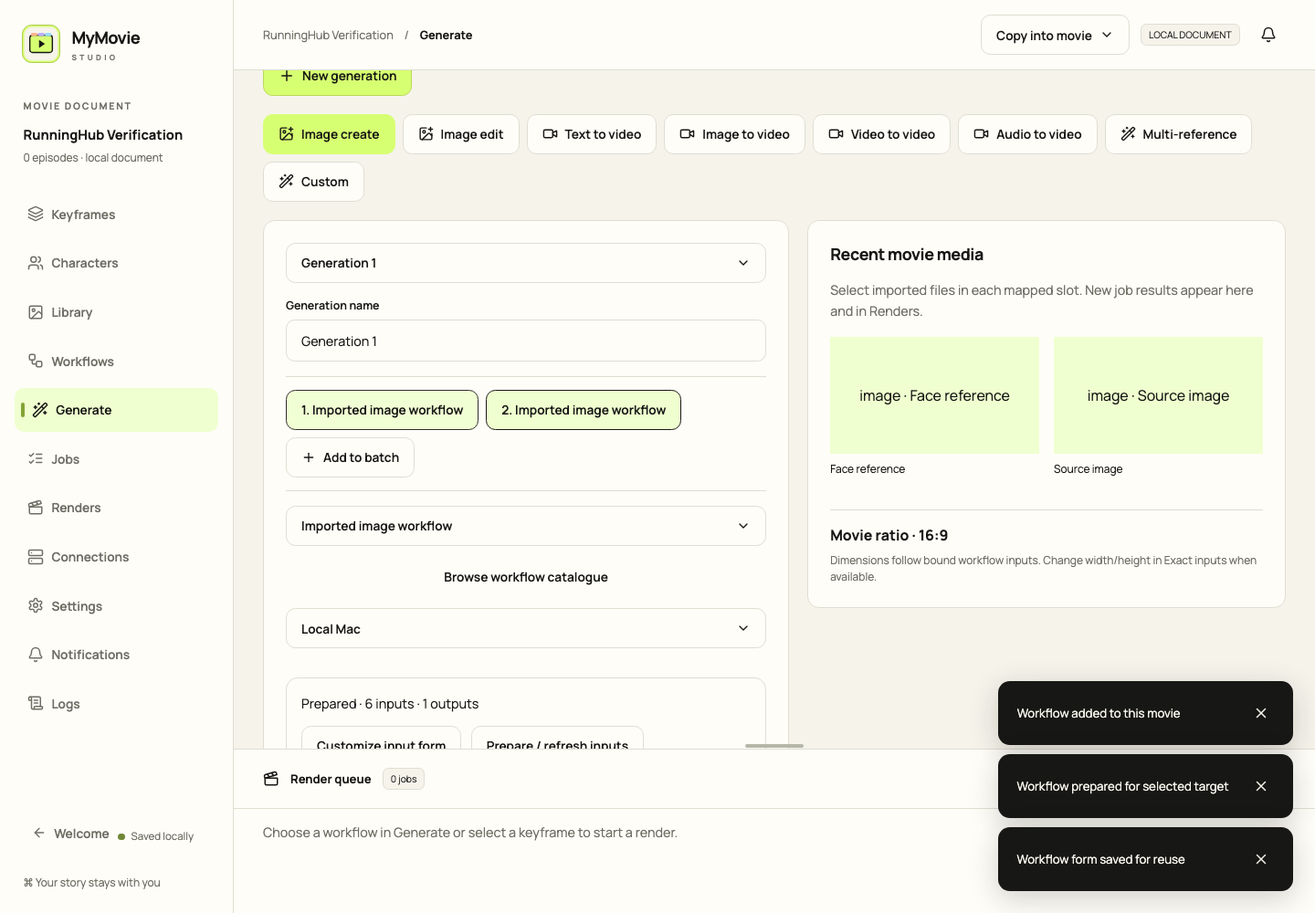
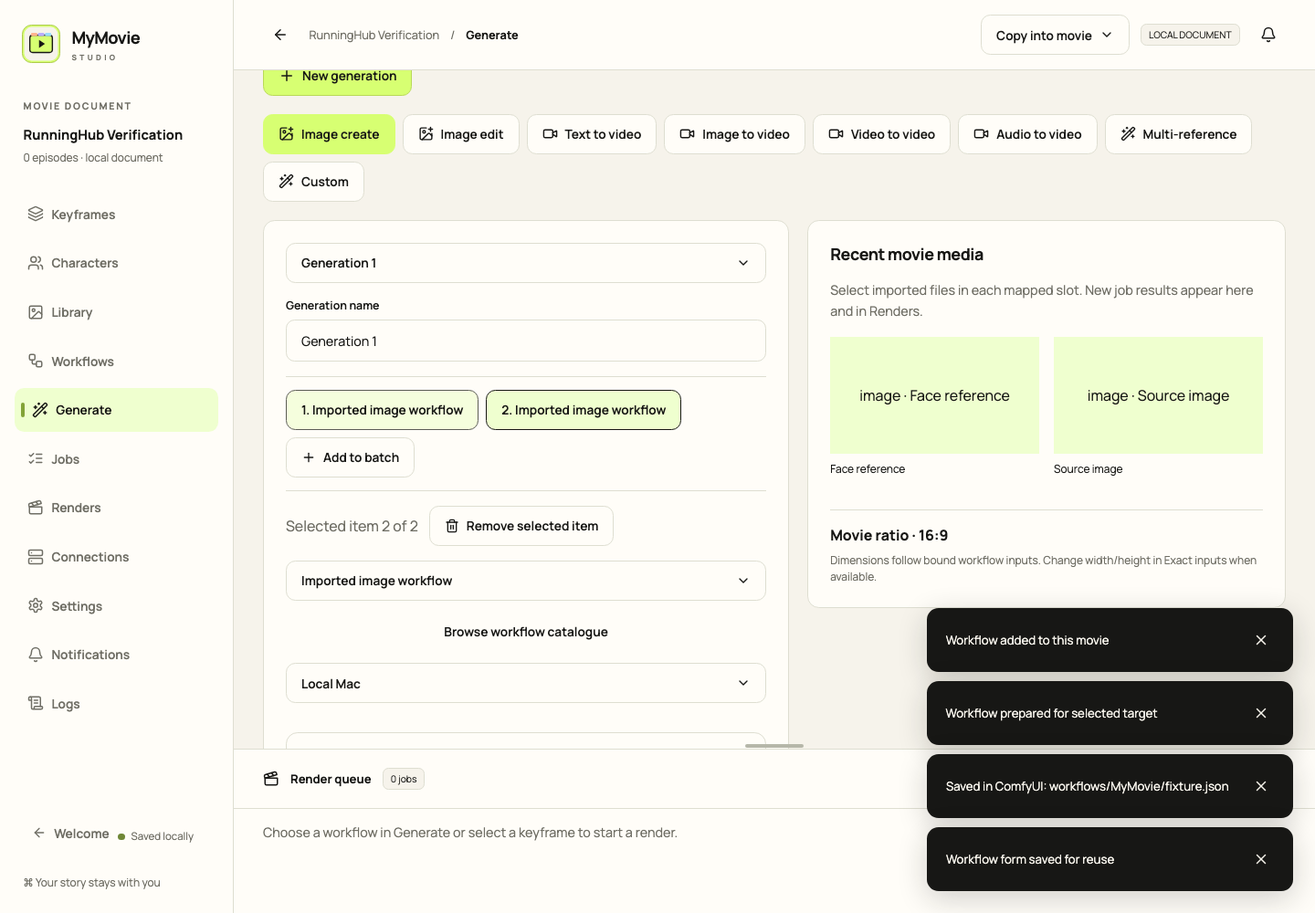
Document Studio 0.1.7 native queue and ARM64 utility acceptance

diff --git a/docs/STUDIO_REFINEMENT_PLAN.md b/docs/STUDIO_REFINEMENT_PLAN.md
@@ -1,0 +1,120 @@
+# Implementation Plan: Studio refinement and real ComfyUI workflow installation
+
+Status: Approved by user `go`; implemented in 0.1.7. Verification: TASK_LOG.md.
+Date: 2026-10-14
+Branch: main
+
+## Goal
+Make reusable workflow forms compact and correct, separate queueing from execution, reliably prepare and install normal editor workflows through the utility, and improve document navigation, media previews and usage discovery. Verify the already-published Linux ARM64 agent inside the user's OrbStack Debian VM.
+
+## Existing behavior
+- Version 0.1.6 already publishes four agents, including Linux aarch64, and five desktop builds. Debian OrbStack reports aarch64/glibc 2.41; Python and curl exist, ffmpeg is absent.
+- Generate saves drafts, but its main action sends users to review/start. Native start_job_draft persists a run and immediately dispatches. Persisted pause/resume and FIFO/parallel scheduling already exist.
+- FaceSwap image roles are guessed from node enumeration. Explicit node/input bindings and per-workflow hidden/advanced layouts exist, but role correction and compact customization are difficult to discover.
+- Profiles compare a hash of the entire object_info registry. Dynamic uploaded-file lists and unrelated classes can invalidate otherwise compatible workflows.
+- workflow-install stores immutable editor JSON in the agent catalogue only. It does not publish a saved workflow into ComfyUI's workflow library. workflow-compile already delegates API serialization to the selected frontend.
+- The installed ComfyUI provides GET/POST /userdata/{encoded-file}, with overwrite=false conflict protection. Import can use this API without replacing the open canvas.
+- Welcome has no recent-list management. Its existing return button disappears below the responsive sidebar breakpoint.
+- Library videos lack poster thumbnails, filenames lack constrained ellipsis, and asset/character usage has no cross-scene navigation.
+
+## Proposed approach
+1. Persist explicit source/reference roles against exact node ID + input name. Offer Swap inputs for the two-image FaceSwap form; never infer image1 from dictionary order. Preserve original editor/API graphs and historical run receipts. Existing drafts need an explicit repair action rather than silent mutation.
+2. Make essential media and prompt fields the compact default. Expose Customize inputs, Advanced, and Show hidden without recompilation. Persist workflow-level labels, roles, grouping and visibility for reuse; hidden fields retain values and validation. Required unmapped inputs cannot disappear without an actionable warning.
+3. Add Add to queue separately from Run now. Enqueue freezes/preflights a durable run in the existing paused state, with optional start-reason metadata distinguishing never-started queued work from a manually paused run. Queueing performs no upload or provider submission. Start selected/all queued resumes these runs; existing endpoint FIFO and parallel-node rules remain authoritative. Reopening queued work must never start it automatically.
+4. Replace whole-registry comparison with a versioned workflow-scoped compatibility fingerprint. Hash used node structural schemas, Python module identity and static choices. Record frontend identity separately in the compilation receipt. Treat known dynamic media/model inventory lists separately, validating the chosen models and fields live. Actual schema changes require reprepare; unrelated additions do not. Existing legacy profiles require one explicit refresh, retaining compatible layout/values.
+5. Extend workflow-install with an explicit publish-to-ComfyUI option. Publish editor JSON to a confined, sanitized, content-versioned workflows/MyMovie path via Userdata API, overwrite=false; read it back and verify semantic content/hash. Same content is idempotent, different content cannot overwrite. Return library path, source hash and loadedCanvas=false. Expose Install in ComfyUI for the selected catalogue workflow/node. Reuse the existing compiler to export API; do not ask for repeated API uploads.
+6. Keep Welcome reachable at every supported screen size. Make recent movies scroll within the available height; offer remove entry and clear list, affecting recent history only. Close-to-Welcome must flush pending edits and scope outstanding work correctly.
+7. Generate bounded background video posters into derived asset cache, with source-hash identity, failure fallback and retry. Extend the confined native media protocol for posters. FFmpeg discovery must work from a GUI launch; absent ffmpeg gives a clear setup action without rejecting the imported video. Keep original/linked materials unchanged.
+8. Add shared usage selectors: direct frame placement, character references through effective scene/frame cast, and draft references are labeled separately. Show scene/frame links in Library and effective character assignments in Characters. Clicking character usage filters Board across the selected episode, switching episode when opening a specific result; filter is easy to clear.
+
+## File changes
+All changes below are modifications unless marked create. No files are deleted.
+
+### Contracts, preparation and queue
+- crates/studio-contracts/src/lib.rs: backward-compatible optional media-role, fingerprint-version and queued-start metadata.
+- apps/desktop/src/lib/types.ts: matching TypeScript DTO fields.
+- crates/workflow-core/src/schema.rs: explicit role application and workflow-scoped registry normalization/fingerprint, with regressions.
+- crates/provider-comfyui/src/lib.rs: scoped compatibility checks plus separate live inventory validation.
+- apps/desktop/src-tauri/src/service/catalogue.rs: prepare/refresh preservation and installation command orchestration.
+- apps/desktop/src-tauri/src/service/jobs.rs: shared preflight/freeze, enqueue without dispatch and explicit queued-run start.
+- crates/job-core/src/runs.rs: queued/paused start metadata and existing recovery/admission behavior.
+- crates/job-core/tests/runs.rs: durable enqueue/reopen/FIFO/parallel regression coverage.
+- apps/desktop/src-tauri/src/main.rs: register enqueue/start, workflow installation, recent management and thumbnail commands.
+
+### Agent installation
+- apps/agent/src/main.rs: explicit workflow-install publish options and validation.
+- apps/agent/src/workflow.rs: bounded Userdata publication/readback and receipts; preserve registry-only default.
+- crates/provider-relay/src/lib.rs: typed installation payload through the existing allowlisted control channel.
+- apps/relay/src/main.rs: validate installation payload and retain scoped authorization; no arbitrary path/command execution.
+
+### UI and media
+- apps/desktop/src/components/WorkflowTarget.tsx: visible compact customization, role editing and Install in ComfyUI.
+- apps/desktop/src/components/WorkflowInputs.tsx: explicit source/reference slots, swap action and compact/advanced layout.
+- apps/desktop/src/features/Generate.tsx: separate queue/run actions with saved workflow/node reuse.
+- apps/desktop/src/features/Jobs.tsx: queue review, queued runs and explicit start selected/all controls.
+- apps/desktop/src/App.tsx: recent management, responsive Welcome action, usage navigation and async scoping.
+- apps/desktop/src/features/Library.tsx: filename ellipsis, video posters, asset/character usage links.
+- apps/desktop/src/features/Board.tsx: external navigation and effective-character filter.
+- apps/desktop/src/lib/project-usage.ts (create): pure asset/cast usage selectors shared by Library and Board.
+- apps/desktop/src/lib/project-usage.test.ts (create): inherited cast, deduplication and cross-episode usage tests.
+- apps/desktop/src/lib/job-inputs.ts: apply explicit media roles while preserving exact node/input addresses.
+- apps/desktop/src/lib/job-inputs.test.ts: swap/persistence and hidden-default regressions.
+- apps/desktop/src/lib/bridge.ts: typed new commands and poster URL.
+- apps/desktop/src/styles/studio.css: rem spacing, compact form layout, constrained filenames, scrollable recents and visible navigation.
+- crates/integration-core/src/lib.rs: remove/clear recent history without deleting projects.
+- crates/asset-core/src/lib.rs: safe derived poster path/process helpers.
+- apps/desktop/src-tauri/src/service.rs: recent commands and scoped thumbnail orchestration.
+- apps/desktop/src-tauri/src/service/thumbnails.rs (create): bounded asynchronous thumbnail worker/cache/status.
+- apps/desktop/src-tauri/src/media.rs: confined poster route alongside existing media streaming.
+
+### Acceptance and documentation
+- e2e/generate.e2e.ts: compact roles and queue-without-run behavior.
+- e2e/jobs.e2e.ts: explicit start queued jobs and endpoint dispatch behavior.
+- e2e/workflow-catalogue.e2e.ts: workflow installation/reuse and refresh actions.
+- e2e/library.e2e.ts (create): recent navigation, long filenames, posters and usage filtering with native fixtures.
+- docs/WORKFLOW_SETUP.md: utility installation/export instructions, refresh guidance and Linux ARM64 VM test.
+- docs/GENERATION_ACCEPTANCE.md: actual local/VM acceptance evidence, distinguishing real from mocked execution.
+- README.md, README.ru.md, README.fr.md: queue, compact inputs, workflow install and media usage guidance.
+- docs/PROJECT_CONTEXT.md, ARCHITECTURE_INDEX.md, MODULE_OWNERSHIP.md, API_CONTRACTS.md, DECISIONS.md, TASK_LOG.md: concise final contracts, module map and verification state.
+- docs/screenshots/: refreshed native UI and utility acceptance evidence, excluding personal media/secrets.
+
+## Implementation steps
+1. Fix explicit roles and scoped compatibility first; test exact FaceSwap node IDs and dynamic filename/model inventory changes. Preserve old profiles and provide an explicit refresh path.
+2. Extract common native draft freezing and implement enqueue/start. Verify zero external writes on enqueue, persistence after reopen and scheduling when explicitly started.
+3. Add agent publication/readback and selected-node UI integration. Verify an ordinary weight-free editor workflow appears in local ComfyUI's saved workflow library and compiles to API through the utility.
+4. Implement compact reusable forms and visible queue controls; verify the two FaceSwap slots and saved defaults survive reopen.
+5. Add recent-list management and responsive navigation; verify small-screen scrolling and save-before-close.
+6. Add poster generation, filename constraints, usage selectors and Board navigation. Verify imported copied/linked videos and inherited character references.
+7. Extract the verified v0.1.6 Linux ARM64 artifact into an isolated Debian VM work directory. Check ELF architecture/help/doctor, install only the compiler prerequisites required for this acceptance, then test utility install/compile against reachable local ComfyUI. If a VM-local ComfyUI is needed, use an isolated weight-free CPU setup; never download large weights for this test.
+8. Complete tests, rebuild the native macOS app, capture screenshots and update English/Russian/French docs and compact memory. Commit small coherent changes on main. A future release tag/publication is separate from verifying the existing ARM64 download.
+
+## Verification
+- cargo test --workspace --locked; cargo fmt --all -- --check.
+- npm test; npm run typecheck; npm run test:e2e; npm run build.
+- python3 -m unittest discover -s scripts/tests.
+- Native macOS production build and manual responsive Welcome/Generate/Jobs/Library/Characters checks.
+- Provider fixture tests: unrelated registry additions and uploaded filenames remain compatible; used node schema changes and missing selected models still fail before staging.
+- Queue fixture tests: enqueue makes no upload/submission; restart stays idle; explicit start respects FIFO per endpoint and overlap across endpoints.
+- Real local test: publish a normal editor mask workflow using the utility, read it back/list it from ComfyUI, export API through its frontend, queue without running, explicitly run and verify collected result/hash.
+- FaceSwap role correction: inspect active graph links and user-specified image1/image2 reversal; test with the previously approved non-explicit portraits only.
+- ARM64 VM: verify actual published binary architecture and execute install/compile; record exact environment and failures rather than claiming cloud acceptance.
+- Video test: import a small local fixture, verify generated poster, cache reuse, non-blocking failure/missing-ffmpeg state and confined media access.
+
+## Risks / edge cases
+- Node order does not establish media semantics. Existing FaceSwap drafts must be repaired visibly; new bindings must preserve exact node identity.
+- Dynamic combo normalization must be limited to known inventory fields; static combo changes and actual selected-model absence remain meaningful failures.
+- Older profiles require one reprepare; no silent compatibility bypass or mutation of immutable receipts.
+- ComfyUI versions without Userdata support report a capability error; registry storage alone is never labeled installation into ComfyUI.
+- FFmpeg location/dependencies differ across desktop platforms. Thumbnails are optional derived data, never an import prerequisite.
+- Scene-inherited character references describe availability, not proof that a render used a particular reference image.
+- VM can test ARM64 CPU utility behavior, not CUDA/GPU cloud deployment.
+
+## Out of scope
+Paid RunningHub jobs, rented cloud nodes, GPU/cloud acceptance, changing existing active ComfyUI canvases, arbitrary plugin/weight installation, release notarization, and automatic modification of historical jobs. Existing reviewed provisioning remains available unchanged.
+
+## Accepted refinements during implementation
+- Remove selected Generate batch items, including the last item, with an empty-state recovery action.
+- Collapse Jobs editor, restore frozen queued inputs, choose another execution node, and atomically replace an unstarted queued run. Preserve the canceled original receipt; started work is reusable as a separate draft.
+- Clear terminal rows from the bottom queue using persisted app-local dismissed IDs; preserve active/unknown jobs, durable history and results.
+- Additional files: lib/job-history.ts and its tests; provider-comfyui/src/workflow.rs owns shared publication/readback instead of duplicating it in agent code. Existing asset helpers support native thumbnail orchestration.
+- Real native and ARM64 VM evidence is recorded in GENERATION_ACCEPTANCE.md. No new release tag was created.

diff --git a/docs/API_CONTRACTS.md b/docs/API_CONTRACTS.md
@@ -60,7 +60,7 @@
 
 ## Open acceptance gaps
 - Full private runner/S3/GPU roundtrip, desktop SSE consumer and deployment hardening.
-- Normalized entity migrations/schema parity; variants, derivatives, prompt version history.
+- Normalized entity migrations/schema parity; variants, derivatives other than video posters, prompt version history.
 - Browser/training/Homer interfaces require later implementation; no fabricated contract.
 
 ## Native document startup
@@ -90,7 +90,7 @@
 - Explicit empty strings, numeric zero, false and parsed JSON are valid exact overrides; absent prompt override composes common/scene/frame text.
 - Preview resolves graph and media hash/size without upload; stage resolves provider filenames. Imported graph stays immutable.
 - preview_job_draft({draft}) -> JSON; start_job_draft({draftId}) -> Job[] after saving all attempts and run atomically.
-- list_job_runs() -> JobRun[]; control_job_run({runId,action:pause|resume|cancel}) -> JobRun.
+- list_job_runs() -> JobRun[]; control_job_run({runId,action:pause|resume|cancel}) -> Job[].
 - JobRun: id,name,draftId,jobIds,state,createdAt; Job.runId/itemId optional for legacy jobs.
 - Same normalized ComfyUI URL queues FIFO; distinct instances/relay node IDs dispatch concurrently.
 - Unknown attempts hold a slot until explicit reconciliation. Pause stops waiting work; cancellation also requests active provider cancellation.
@@ -100,7 +100,7 @@
 - Old app cannot edit schema v2; restore a closed backup copy for rollback. Draft projection: jobs/drafts.json; runs: jobs/runs/<id>.json.
 
 ## Generate and managed initialization (current main)
-- JobDraft.context: {kind:standalone,mode} or {kind:keyframe,frameId}; legacy drafts default to their existing frameId.
+- JobDraft.context: {kind:standalone|storyboard,mode,characterIds}; storyboard frameId is on JobDraft. Legacy contexts default to storyboard.
 - WorkflowBinding.media?: {kind:image|video|audio,role,order}; media sources require string bindings and exact asset-kind validation.
 - Workflow.requirements defaults {compatibility:unspecified,artifacts:[]}; accepted flags: unspecified/universal/apple-silicon/cuda/rocm/cpu.
 - Dependency artifact: kind/category/relative target/SHA256/size/architecture/license plus public HTTPS source or private sourceRef; plugins pin full revision and optional stripPrefix.
@@ -116,9 +116,20 @@
 ## Workflow catalogue and preparation
 - Workflow source/version immutable; global catalogue SQLite and portable movie pins have independent ownership.
 - Native: list_workflows, catalogue_workflow(workflowId), pin_workflow(workflowId), save_workflow_layout(workflowId,layout), prepare_workflow(workflowId,connectionId), export_workflow(workflowId,path,editor:boolean,connectionId).
-- WorkflowProfile: connectionId/sourceHash/apiHash/registryHash/frontendHash/compilerVersion/graph/inputs/outputs. Stale registry fails before uploads; frozen jobs retain compiled profile and output layout.
+- WorkflowProfile: connectionId/sourceHash/apiHash/registryHash/frontendHash/compilerVersion/graph/inputs/outputs. Used-node schema mismatch fails before uploads; frozen jobs retain compiled profile and output layout.
 - Inputs describe literal nodeId/input, type/control/default/constraints/choices/media role; graph links are excluded. Layout aliases/groups/order/advanced/hidden are persisted separately.
 - ComfyUI V3 COMBO options and active dotted dynamic dimensions supported; changing a dynamic branch requires preparation. Unsupported values require explicit bindings.
 - Agent typed workflow-inspect/install/compile operations take bounded editor source, check immutable hash and write confined agent-owned source/compiled/receipt paths.
 - Compiler emits graph + registry + hashes; installation does not replace a user's active canvas. No execution during compilation; same-origin read-only browser traffic, no external requests.
 - Result output selection filters ComfyUI nodeId metadata; providers lacking node metadata retain all results.
+
+## Studio refinement contracts (0.1.7)
+- enqueue_job_draft({draftId}) -> Job[]: preflight/freeze atomically, paused attempts and JobRun.queued=true; zero media uploads/provider submissions. Explicit resume clears queued.
+- replace_queued_job_run({draftId,runId}) -> Job[]: only queued/paused runs whose attempts are paused without remote IDs; atomic insert replacement/cancel original, or rollback. Original snapshots remain unchanged.
+- JobDraft.queuedRunId optional/null persists pending edits; ordinary enqueue/start rejects associated drafts until replaced or explicitly separated.
+- Workflow layout input.mediaRole optional binds semantics to the exact node/input; swap changes labels/roles, never graph identity.
+- registryHash `scope-v1:<SHA256>` covers only used node schemas, static choices and Python module identity. Known dynamic model/media choices are excluded; selected models validate live before staging. Legacy profiles require explicit refresh; frontendHash remains separate compilation provenance.
+- install_workflow({workflowId,connectionId}) and agent workflow-install --publish-to-comfyui publish only normal editor sources to workflows/MyMovie/<slug>-<hash16>.json. Bounded Userdata GET/POST(overwrite=false)/readback; receipt installed/reused/libraryPath/sourceHash/loadedCanvas=false. Default agent install remains registry-only.
+- remove_recent_project({path}), clear_recent_projects(): history only; close_project flushes the frontend save queue before Welcome.
+- video_thumbnail({assetId}) generates optional bounded hash-identified JPEG; native poster protocol resolves registered asset IDs and confined derived paths.
+- AppSettings.dismissedQueueJobIds defaults []; Clear finished records only completed/failed/canceled IDs. Other states remain visible regardless of IDs. Stored outside movies; job history/results are untouched.

diff --git a/docs/GENERATION_ACCEPTANCE.md b/docs/GENERATION_ACCEPTANCE.md
@@ -1,6 +1,6 @@
 # Generation acceptance — current main
 
-Date: 2026-10-14. These checks concern the 0.1.6 implementation. Publication is recorded in CI_RELEASES. No paid cloud jobs ran.
+Date: 2026-10-14. Checks below distinguish published 0.1.6 from current 0.1.7. Publication is recorded in CI_RELEASES. No paid cloud jobs ran.
 
 ## Real local executions
 
@@ -82,3 +82,20 @@ portable activation commands, and first-session initialization. See
 - Native UI prepared 37 fields and two image loaders; newer V3 COMBO choices and active dotted dimensions were then fixed and regression-tested.
 - Browser acceptance verifies searchable catalogue selection, two media slots, dotted width/height ratio application, saved layout, reopen and second draft without a fresh upload. Screenshot: [workflow-catalogue.png](screenshots/workflow-catalogue.png).
 - Arbitrary third-party dynamic widgets, primitive/reroute/bypass/subgraph combinations are delegated to the real frontend but have not all received individual live fixtures. This is not a universal custom-plugin compatibility claim.
+
+## Studio refinement, real local and ARM64 acceptance (0.1.7)
+
+- Native production app opened a disposable movie, selected the saved editor mask and local node, then **Add to queue**. No job ran until explicit start. Welcome/reopen preserved the idle queued batch. **Run queued batch** completed and collected a 64 × 64 PNG (559 bytes).
+- Attempt `ee179dd7-0e15-4f23-968d-56861dcb1353`; run `1a71e76d-2917-43a9-8960-96156e84c6e7`; prompt `017face2-ec77-40c9-a4e5-24f41d7c2492`.
[1 lines of base64/hex data omitted]
+- Scoped registry `scope-v1:a95fdc2148b21ff5ede10e092737832ee30b88952848848405b79823297e32e3`.
+- Native screenshot: [native-queue-0.1.7.png](screenshots/native-queue-0.1.7.png). Later queue editing screenshot uses mocked provider fixtures: [jobs-queue-edit.png](screenshots/jobs-queue-edit.png).
+- Native Library imported a synthetic one-second video and generated a real bounded JPEG poster at `media/derived/posters/<source-sha>.jpg`; original remained unchanged.
[1 lines of base64/hex data omitted]
+- Actual published v0.1.6 Linux ARM64 artifact ran doctor in OrbStack Debian (aarch64, glibc 2.41) against local CPU ComfyUI. Current 0.1.7 ELF was separately built in the Rust 1.90 Bookworm image, then executed in the VM.
[1 lines of base64/hex data omitted]
+- Cloud GPU/relay/S3 roundtrip, paid RunningHub generation, foreign desktop launch and release signing remain pending. No cloud resources or large weights were downloaded for the VM test.
+
+### Native bottom queue cleanup — 0.1.7
+
+Installed the rebuilt app in /Applications; Clear finished removed seven completed mask attempts from the bottom queue. All seven receipts remained in Jobs history across three finished batches, and reopening the same disposable movie still showed zero bottom entries. No job records or render files were deleted. Screenshot: `screenshots/native-queue-cleared-0.1.7.png`. Mixed terminal/active/unknown behavior is covered by the browser fixture test.

diff --git a/README.ru.md b/README.ru.md
@@ -2,7 +2,13 @@
 
 [Скачать релизы](https://github.com/gubnota/auteur/releases/tag/v0.1.6) — macOS Apple Silicon/Intel, Windows x64, Linux x86_64/ARM64 и агенты ComfyUI. Установщики Windows без цифровой подписи; нотарификация macOS ещё ожидается.
 
-Версия **0.1.6** добавляет общий каталог workflow, подготовку обычного editor JSON через выбранный ComfyUI, формы по реальным типам входов и агенты macOS/Linux. Workflows импортируются один раз; сохранённые версии и узлы доступны в Generate и Jobs.
+Текущая main и локальная установка macOS — **0.1.7**; опубликованная загрузка выше остаётся **v0.1.6** до нового тега. **Add to queue** сохраняет пакет без запуска; **Run queued batch / Run all queued** запускает его явно. Редактор Jobs можно свернуть. **Edit queued batch → Execution node → Save queue changes** позволяет изменить узел ещё не запущенного пакета; оригинальная квитанция остаётся в истории. Запущенные задания доступны через **Reuse as draft**. Из Generate можно удалить любой элемент, включая последний. **Clear finished** очищает нижнюю панель от завершённых записей, сохраняя историю и результаты.
+
+Формы компактны: медиа и промпты видны сразу, расширенные поля раскрываются. Два входа FaceSwap можно явно поменять ролями. Утилита устанавливает обычный editor workflow в библиотеку выбранной ComfyUI и экспортирует API без повторной загрузки файла. Library показывает постеры видео, сокращённые имена и использование материалов; Characters — переход к назначенным кадрам. Welcome доступен всегда, список недавних фильмов прокручивается и очищается. ARM64 Linux проверен в OrbStack Debian. См. [настройку](docs/WORKFLOW_SETUP.md) и [результаты тестов](docs/GENERATION_ACCEPTANCE.md).
+
+![Редактирование очереди, тестовый интерфейс](docs/screenshots/jobs-queue-edit.png)
+
+Опубликованная версия **0.1.6** добавила общий каталог workflow, подготовку обычного editor JSON через выбранный ComfyUI, формы по реальным типам входов и агенты macOS/Linux. Workflows импортируются один раз; сохранённые версии и узлы доступны в Generate и Jobs.
 
 Release-сборка: `npm run tauri:build -- --bundles app`; результат: `target/release/bundle/macos/MyMovie Studio.app`. Локальная установка использует ad-hoc подпись; нотарификация Apple пока не выполнена.
 

diff --git a/README.md b/README.md
@@ -2,7 +2,13 @@
 
 [Download releases](https://github.com/gubnota/auteur/releases/tag/v0.1.6) — macOS Apple Silicon/Intel, Windows x64, Linux x86_64/ARM64 and headless ComfyUI agents. Windows installers are unsigned; macOS notarization remains pending.
 
-Version **0.1.6** adds a reusable workflow catalogue, automatic editor-to-API compilation against the selected ComfyUI frontend, generated input forms, real dimension controls and macOS/Linux agent utilities. Jobs preserve exact inputs, queue on one instance and run in parallel across different instances. RunPod ComfyUI is the main execution target; RunningHub tests saved hosted deployments. Older documents upgrade to schema v4 only after an explicit backed-up migration; older apps cannot open the upgraded package.
+Current main and the local macOS installation are **0.1.7**; the public download above remains **v0.1.6** until a new release tag. Use **Add to queue** to save an idle batch, then **Run queued batch** or **Run all queued**. Collapse the Jobs editor, select **Edit queued batch**, change **Execution node**, and **Save queue changes**. Started jobs offer **Reuse as draft**. Generate items can be removed, including the last one. **Clear finished** empties terminal entries from the bottom panel while preserving history and results.
+
+Input forms show essential media/prompts first; Advanced and hidden fields are expandable. Explicit two-image roles can be swapped. Normal editor workflows can be installed into the selected ComfyUI library through the utility, then prepared/exported without repeated API uploads. Library adds video posters, filename ellipsis and usage links; Characters link to assigned frames. Welcome is always reachable, with scrollable/removable recent movies. Linux ARM64 install/compile was tested in OrbStack Debian. See [setup](docs/WORKFLOW_SETUP.md) and [actual acceptance](docs/GENERATION_ACCEPTANCE.md).
+
+![Queue editing, fixture UI](docs/screenshots/jobs-queue-edit.png)
+
+Version **0.1.6** introduced a reusable workflow catalogue, automatic editor-to-API compilation against the selected ComfyUI frontend, generated input forms, real dimension controls and macOS/Linux agent utilities. Jobs preserve exact inputs, queue on one instance and run in parallel across different instances. RunPod ComfyUI is the main execution target; RunningHub tests saved hosted deployments. Older documents upgrade to schema v4 only after an explicit backed-up migration; older apps cannot open the upgraded package.
 
 Release build: `npm run tauri:build -- --bundles app`; output: `target/release/bundle/macos/MyMovie Studio.app`. Local installation uses an ad-hoc signature; Apple notarization remains pending.
 

diff --git a/docs/PROJECT_CONTEXT.md b/docs/PROJECT_CONTEXT.md
@@ -10,11 +10,14 @@
 ## Current milestone
 - Revised Phases 0–3 approved by user `go` on 2026-10-13.
 - Native Generate/media setup implemented; live private cloud acceptance remains open.
-- Version 0.1.6: reusable catalogue and target-specific compiler/forms implemented; publication evidence is in TASK_LOG.
+- Current main/local install: 0.1.7; reusable forms, idle queue/edit, workflow publication and video posters implemented.
+- Published download: v0.1.6; no new tag in this refinement. Evidence: TASK_LOG and CI_RELEASES.
 - Installed release: see latest TASK_LOG entry; /Applications/MyMovie Studio.app uses a local ad-hoc signature.
 - Cold Finder opening and warm saved-project opening verified; startup abort fixed.
 - Real SQLite package persistence; browser preview is memory-only.
 - Native picker import, linked character reference and collection verified.
+- Scrollable/removable recents, Welcome navigation, filename ellipsis, posters and cast/asset usage links implemented.
+- Linux ARM64 utility ran in OrbStack Debian: immutable workflow publish/reuse and frontend API compilation passed against local CPU ComfyUI.
 - Weight-free local Docker ComfyUI HTTP/history/result canary passed.
 - Automated Finder file-drop acceptance remains unverified.
 - Full approval scope: docs/IMPLEMENTATION_PLAN.md.
@@ -30,7 +33,7 @@
 - Custom modal pickers, editable forms and keyboard reorder controls.
 - Shared domain DTOs live in studio-contracts; TS mirrors are manual.
 - Radix/Tailwind/Zustand/Query/Zod requested stack is not fully adopted.
-- FFmpeg/FFprobe discovery exists; derivative pipeline remains future work.
+- Bounded background FFmpeg video posters implemented; other derivatives remain future work.
 
 ## Package and media
 - Finder extension: .mymovie; macOS document association and package metadata.
@@ -72,6 +75,9 @@
 - Durable jobs/receipts/results; unknown submission blocks blind retry.
 - ComfyUI URL FIFO (one active); relay URL + node FIFO/capacity; RunningHub account capacity.
 - Saved independent batches, exact typed inputs and frozen run/item provenance.
+- Add to queue freezes idle work; explicit start required, including after reopening.
+- Queued edits replace only unstarted batches atomically; original receipts remain canceled.
+- Bottom Clear finished hides terminal rows persistently without deleting history/results.
 - v1/v2/v3→v4 requires explicit backup/upgrade; SQLite and manifest backups retained.
 - Reopening unsent work pauses it; unknown submissions keep their lane occupied.
 - Desktop polls providers; relay offers authenticated replayable SSE.

diff --git a/README.fr.md b/README.fr.md
@@ -2,7 +2,13 @@
 
 [Télécharger les releases](https://github.com/gubnota/auteur/releases/tag/v0.1.6) — macOS Apple Silicon/Intel, Windows x64, Linux x86_64/ARM64 et agents ComfyUI. Les installateurs Windows ne sont pas signés ; la notarisation macOS reste à réaliser.
 
-La version **0.1.6** ajoute un catalogue commun de workflows, la préparation du JSON éditeur via le ComfyUI sélectionné, des formulaires issus des types réels et les agents macOS/Linux. Importez une fois puis réutilisez les versions et destinations dans Generate et Jobs.
+La branche main et l’installation macOS locale sont en **0.1.7** ; le téléchargement public ci-dessus reste **v0.1.6** jusqu’au prochain tag. **Add to queue** enregistre un lot sans lancement ; **Run queued batch / Run all queued** le démarre explicitement. Repliez l’éditeur Jobs, choisissez **Edit queued batch**, modifiez **Execution node**, puis **Save queue changes**. Le reçu original reste dans l’historique. Les tâches déjà démarrées proposent **Reuse as draft**. Chaque élément Generate peut être supprimé, y compris le dernier. **Clear finished** retire les entrées terminées du panneau inférieur et conserve historique et résultats.
+
+Les formulaires affichent d’abord médias et prompts ; les champs avancés se déplient. Les deux rôles image FaceSwap sont interchangeables. L’utilitaire installe le workflow éditeur dans la bibliothèque ComfyUI choisie, puis exporte l’API sans téléversement répété. Library propose vignettes vidéo, noms tronqués et liens d’utilisation ; Characters ouvre les images clés assignées. Welcome reste accessible avec une liste récente défilante et effaçable. L’agent Linux ARM64 a été testé dans Debian OrbStack. Voir [configuration](docs/WORKFLOW_SETUP.md) et [validation réelle](docs/GENERATION_ACCEPTANCE.md).
+
+![Modification de la file, interface de test](docs/screenshots/jobs-queue-edit.png)
+
+La version publiée **0.1.6** a ajouté un catalogue commun de workflows, la préparation du JSON éditeur via le ComfyUI sélectionné, des formulaires issus des types réels et les agents macOS/Linux. Importez une fois puis réutilisez les versions et destinations dans Generate et Jobs.
 
 Compilation release : `npm run tauri:build -- --bundles app` ; résultat : `target/release/bundle/macos/MyMovie Studio.app`. L’installation locale utilise une signature ad hoc ; la notarisation Apple reste à réaliser.
 

diff --git a/docs/WORKFLOW_SETUP.md b/docs/WORKFLOW_SETUP.md
@@ -58,14 +58,35 @@ python3 -m venv "$COMPILER_ENV"
   --python "$COMPILER_ENV/bin/python" > compilation-receipt.json
 ```
 
-The receipt contains `graph` plus source/API/registry/frontend hashes. The CLI
-also offers `workflow-inspect` and `workflow-install`; check their `--help` for
-required paths. Installation registers an immutable source in agent-owned
-storage. It does not replace the active ComfyUI canvas or write a user’s workflow
-folder. Compilation loads it into an isolated temporary browser context, exports
-through ComfyUI, then closes that context. Missing plugins, models and licenses
-remain reviewed initialization requirements; filenames do not identify trusted
-weight download URLs.
+The receipt contains `graph` plus source/API/registry/frontend hashes. Compilation
+loads the source into an isolated browser context, exports through ComfyUI, then
+closes that context. Missing plugins, models and licenses remain reviewed setup
+requirements; filenames do not identify trusted weight download URLs.
+
+To publish an ordinary editor workflow into the selected ComfyUI saved-workflow
+library, use **Workflow tools → Install in ComfyUI**, or run on the agent machine:
+
+```sh
+"$RUNNER_DIR/mymovie-agent" workflow-install \
+  --workflow-source /path/to/workflow_editor.json \
+  --workflow-name "MyMovie mask canary" --publish-to-comfyui \
+  --comfy-url http://127.0.0.1:8188 --data /path/to/agent-data
+```
+
+Without `--publish-to-comfyui`, install only registers the immutable source in
+agent-owned storage. Explicit publication uses `workflows/MyMovie/<name>-<hash>.json`,
+refuses conflicting content, verifies readback and returns installed/reused/path/hash.
+The active canvas stays untouched. Choose the same saved workflow/node and Prepare
+in the app to export API; no repeated API file upload is needed.
+
+If your Linux VM already has Chromium, add `--compiler-browser /usr/bin/chromium`
+to workflow-compile. The 0.1.7 ARM64 utility was executed in OrbStack Debian with
+this configuration against local CPU ComfyUI: publish/reuse and three-node API
+export passed. See [acceptance evidence](GENERATION_ACCEPTANCE.md).
+
+Older prepared profiles need one explicit **Prepare / refresh inputs**. New
+compatibility checks ignore unrelated nodes and changing media filename lists;
+selected models still need to exist on the chosen node before media staging.
 
 ## Portable paths and activation
 

diff --git a/docs/TASK_LOG.md b/docs/TASK_LOG.md
@@ -1,5 +1,16 @@
 # Task Log
 
+## 2026-10-14 — Studio refinement, 0.1.7
+
+- User approved STUDIO_REFINEMENT_PLAN.md with `go`; implemented on main with later requested batch deletion, collapsible Jobs editor, execution-node editing and bottom queue cleanup.
+- Explicit two-image roles/swap, compact Advanced/hidden controls, saved target reuse, scoped used-node registry compatibility and live selected-model checks before staging.
+- Durable Add to queue stays idle across reopen; explicit start obeys endpoint lanes. Queued edits restore frozen exact inputs and atomically replace only unstarted batches; canceled original receipts remain immutable. Clear finished persistently hides only terminal bottom rows without deleting job history/results.
+- Agent/desktop/relay publish normal editor workflows through confined conflict-safe ComfyUI Userdata with verified readback. Default agent install remains registry-only; current canvas stays untouched.
+- Scrollable/removable recent movies and Welcome navigation; filename ellipsis, background video posters, asset usage and effective scene/frame character links/filtering.
+- Real native idle/reopen/start mask, persisted bottom queue cleanup with seven receipts retained, video poster, Mac FaceSwap editor publication and Linux ARM64 OrbStack utility install/reuse/API compilation passed. Exact receipts: GENERATION_ACCEPTANCE.md; native/fixture screenshots labeled separately.
+- Verification: 46 Rust tests plus doc tests, 17 frontend tests, 13 mocked browser tests, 28 Python tests; typecheck, formatting, version parity and ARM64 macOS production build. Local 0.1.7 installation uses an ad-hoc signature. Public release remains v0.1.6; no new tag created.
+- EN/RU/FR README, setup and compact memory updated. Paid RunningHub/cloud GPU/relay/S3 acceptance, foreign desktop launch and signing/notarization remain open. Drafts, private artifacts and unrelated cpu-canary.png excluded.
+
 ## 2026-10-14 — Catalogue, compiler and generated forms: 0.1.6
 
 - User approved WORKFLOW_CATALOGUE_PLAN.md with `go`; implementation on main. Import normal editor/API JSON once into immutable catalogue versions; portable v4 project pins, target profiles, layouts and saved target selection.

diff --git a/docs/DECISIONS.md b/docs/DECISIONS.md
@@ -150,3 +150,13 @@ Context: Repeated JSON upload and guessed widgets prevented reliable custom work
 Decision: Import once into a local immutable catalogue and portable movie pin. Preserve editor JSON and export API through the selected ComfyUI frontend in an isolated read-only browser context. Describe literal inputs from its live registry; remember targets and editable layouts. Freeze target profile/output selection and recheck registry before dispatch. Publish compiler sidecars in native Linux/macOS agent artifacts.
 Consequences: Requires Python/Playwright/Chromium and a reachable compatible runtime for preparation. Unsupported custom controls and dynamic branch switching need explicit bindings/re-export. RunningHub uses authorized hosted maps. Global catalogue changes never mutate project pins or old receipts.
 Related files: docs/WORKFLOW_CATALOGUE_PLAN.md, crates/workflow-core/src/schema.rs, crates/integration-core/src/catalogue.rs, deploy/runner/mymovie_workflow_compiler.py, apps/desktop/src/components/WorkflowTarget.tsx.
+
+# ADR-0016: Explicit queue edits and verified workflow publication
+
+Date: 2026-10-14
+Status: Accepted
+
+Context: Creators need to stage work without executing, correct node selection, reuse forms and install editor graphs through the utility. Whole-registry hashes were invalidated by unrelated inventory changes.
+Decision: Freeze idle queued runs; atomically replace only unstarted runs, retaining canceled receipts. Restore edits from frozen snapshots. Dismiss terminal bottom rows through app-local settings. Publish immutable versioned editor JSON through typed ComfyUI Userdata and verify readback. Scope compatibility to used schemas; validate selected models live and retain frontend compilation provenance separately.
+Consequences: Reopening never starts queued work. Started jobs cannot be rewritten. Clearing the bottom panel preserves history/results. Legacy profiles require one explicit refresh. ARM64 CPU acceptance is distinct from cloud GPU acceptance.
+Related files: crates/job-core/src/runs.rs, crates/provider-comfyui/src/workflow.rs, crates/workflow-core/src/schema.rs, apps/desktop/src/lib/job-history.ts, apps/desktop/src/App.tsx.

diff --git a/docs/MODULE_OWNERSHIP.md b/docs/MODULE_OWNERSHIP.md
@@ -52,3 +52,10 @@
 - Agent and desktop service coordinate compilation; Python helper delegates serialization to selected ComfyUI frontend, without generation.
 - WorkflowCatalogue/WorkflowTarget/WorkflowInputs own saved selection and forms; no frontend JSON-to-API conversion heuristics.
 - CI packages sidecars and architecture-verified agents; tests separate mock UI evidence from live execution.
+
+## Queue, publication and derived media
+- job-core owns transactional unstarted-run replacement. Native service validates and freezes replacement inputs under the project lock; canceled historical snapshots remain immutable.
+- job-history restores editable UI drafts from receipts; it never rewrites historical attempts. queuedRunId blocks ordinary dispatch until replacement or explicit separation.
+- Bottom queue dismissal belongs to app settings; jobs/results stay in package-owned storage. Nonterminal jobs cannot be hidden by dismissal.
+- provider-comfyui owns bounded typed Userdata publication/readback; desktop, relay and agent coordinate it without arbitrary remote shell commands.
+- Native thumbnails own optional derived cache/process concurrency; originals remain asset-core-owned. project-usage selectors label available cast references separately from actual render provenance.

diff --git a/docs/ARCHITECTURE_INDEX.md b/docs/ARCHITECTURE_INDEX.md
@@ -78,3 +78,12 @@
 - examples/workflows/: CPU, text-to-image, masked-edit API/editor fixtures; native mask editor import/preparation/export passed.
 - playwright.config.ts / e2e/: mocked native Jobs exact-input/persistence and RunningHub mapping acceptance.
 - docs/CI_RELEASES.md: runner requirements, tag and notebook artifact usage.
+
+## Studio refinement modules (0.1.7)
+- lib/job-history.ts / job-history.test.ts: restore drafts from frozen run receipts, including exact values and media identities.
+- lib/project-usage.ts / project-usage.test.ts: direct placement, draft references and effective scene/frame cast usage.
+- src-tauri/src/service/thumbnails.rs: bounded background video posters and hash cache; media.rs serves confined poster routes.
+- crates/provider-comfyui/src/workflow.rs: content-versioned Userdata publication, conflict-safe readback and install receipts.
+- App.tsx: persistent bottom queue dismissal, responsive recents and save-before-Welcome navigation.
+- docs/STUDIO_REFINEMENT_PLAN.md: approved refinement scope and later queue-edit/removal fixes.
+- e2e/jobs.e2e.ts: idle/reopen/start, exact queue replacement, editor collapse and persistent bottom cleanup.
